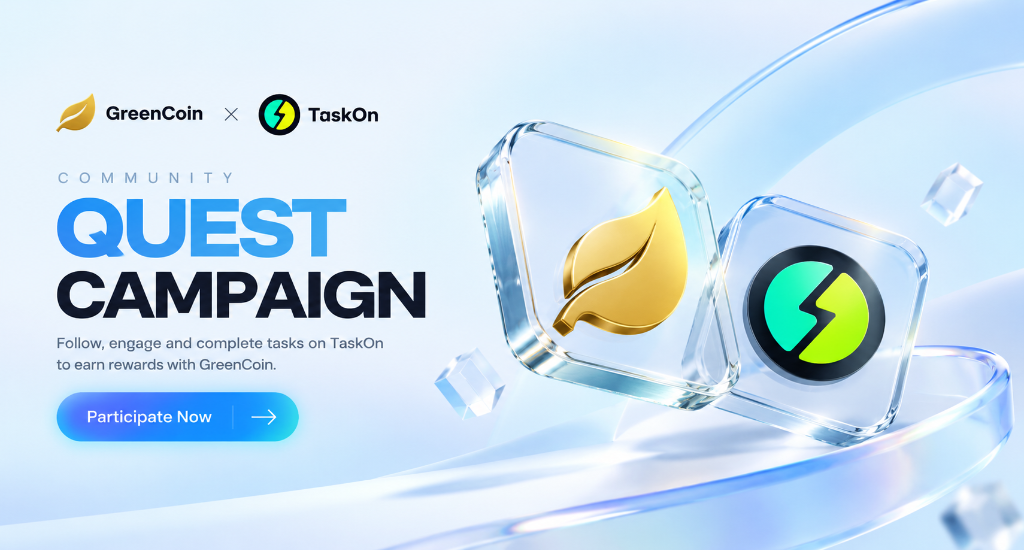
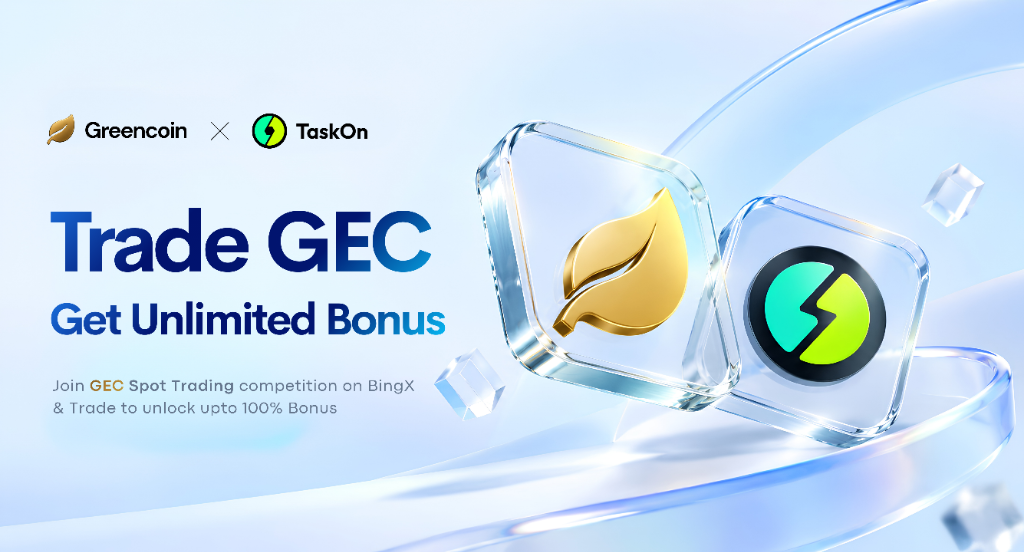
Replace TaskOn poster with new Trade GEC Unlimited Bonus poster

diff --git a/src/components/PromoBannerSection.tsx b/src/components/PromoBannerSection.tsx
@@ -23,12 +23,12 @@ const PROMO_SLIDES: PromoSlide[] = [
   },
   {
     id: 'taskon',
-    title: 'Community Quest Campaign',
-    subtitle: 'Complete tasks on TaskOn to earn GreenCoin rewards',
+    title: 'Trade GEC & Get Unlimited Bonus',
+    subtitle: 'Join GEC Spot Trading competition on BingX & unlock up to 100% Bonus',
     image: '/banners/taskon-campaign.png',
-    alt: 'GreenCoin x TaskOn Community Quest Campaign',
+    alt: 'GreenCoin x TaskOn Spot Trading Competition - Trade GEC & Get Unlimited Bonus',
     link: 'https://taskon.xyz',
-    ctaText: 'Participate Now',
+    ctaText: 'Join Competition',
   },
 ];
 

diff --git a/src/components/HeroPromoModal.tsx b/src/components/HeroPromoModal.tsx
@@ -17,11 +17,11 @@ const SLIDES = [
   },
   {
     id: 'taskon',
-    title: 'Community Quest Campaign with TaskOn',
+    title: 'Trade GEC & Get Unlimited Bonus',
     image: '/banners/taskon-campaign.png',
-    alt: 'GreenCoin x TaskOn Community Quest Campaign',
+    alt: 'GreenCoin x TaskOn Spot Trading Competition - Trade GEC & Get Unlimited Bonus',
     link: 'https://taskon.xyz',
-    ctaText: 'Participate Now',
+    ctaText: 'Join Competition',
   },
 ];
 
